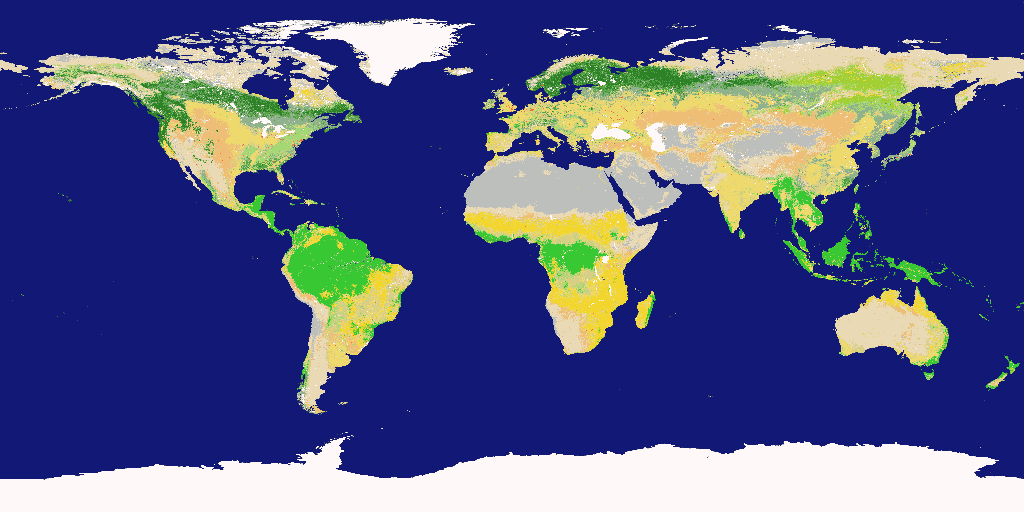
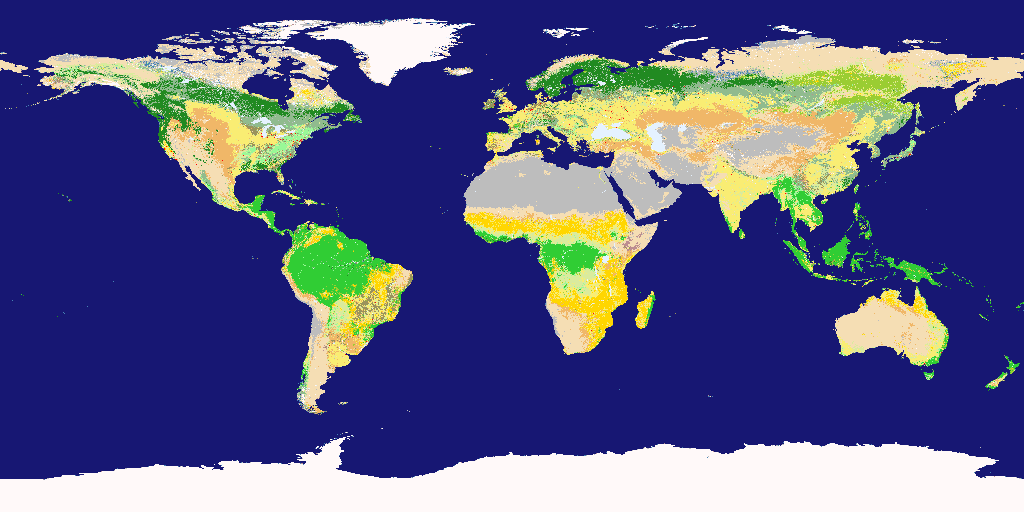
Import better topomap

diff --git a/prepare_map.py b/prepare_map.py
@@ -1,11 +1,20 @@
+"""
+https://visibleearth.nasa.gov/images/61004/new-land-cover-classification-maps
+
+Types:
+  0 - water
+  1-16 accoding to guide
+  17 - lakes and rivers
+"""
 import PIL.Image
 import math
 import sys
 
 
 CLEAR_CODE=2**16-1
+COLORS = 18
 
-def encode_lzw(data, S=16):
+def encode_lzw(data, S=COLORS):
     lookup = {bytes([i]): i for i in range(S)}
     result = []
     chain = bytes()
@@ -29,7 +38,7 @@ def encode_lzw(data, S=16):
     return result
 
 
-def decode_lzw(codes, S=16):
+def decode_lzw(codes, S=COLORS):
     result = []
     for code in [CLEAR_CODE] + codes:
         if code == CLEAR_CODE:
@@ -78,6 +87,8 @@ def main():
     mappart = bytearray([L//256, L%256])
     mappart.extend(compressed[:32640-2])
     spritepart = bytes(compressed[32640-2:])
+    if len(spritepart) > 8192:
+        raise ValueError(f"Cannot fit into sprite area ({len(spritepart)})")
     open(sys.argv[2] + ".map","wb").write(mappart)
     open(sys.argv[2] + ".tiles","wb").write(spritepart)
 
